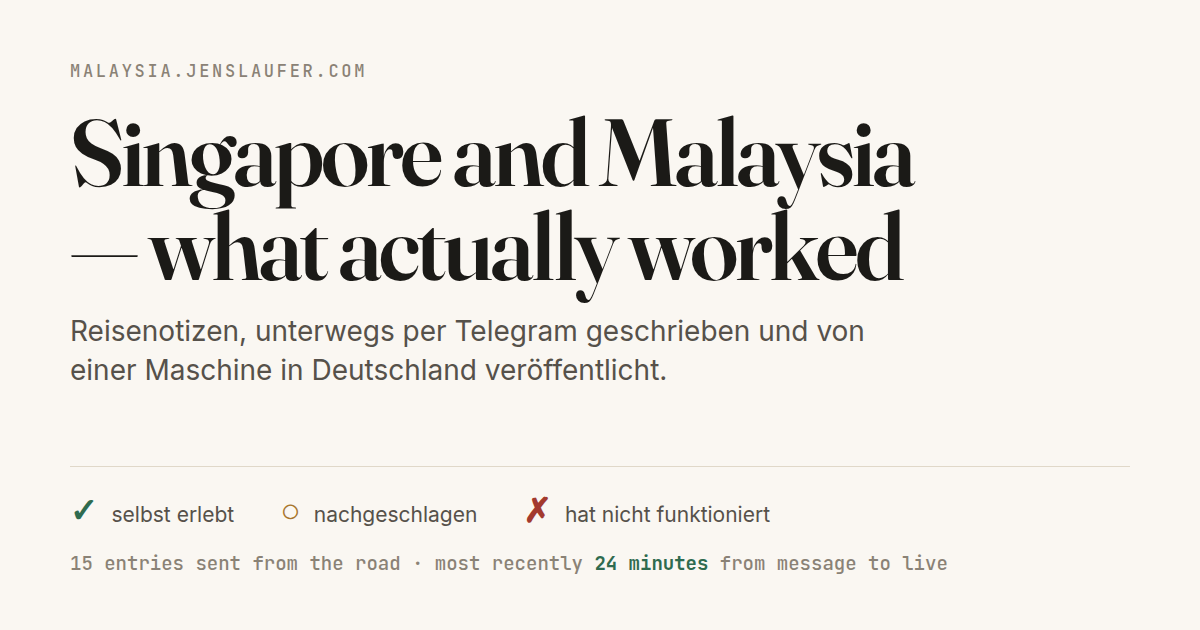
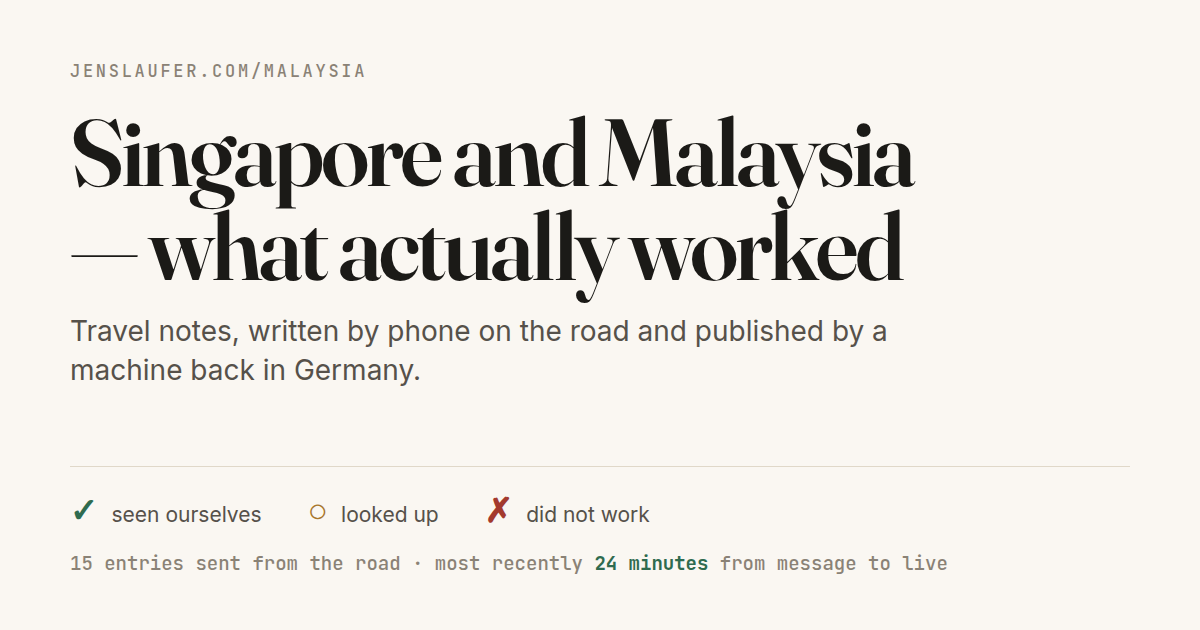
Vorschaukarte: die beworbene Adresse gibt es nicht, und die englische war halb deutsch
Auf der Karte, die beim Teilen in WhatsApp, Telegram und LinkedIn erscheint,
stand malaysia.jenslaufer.com. Die Subdomain hat keinen DNS-Eintrag; wer sie
abtippt, landet nirgends. Im HTML, im Feed und in der sitemap steht ueberall
die richtige Adresse — deshalb war jede Pruefung gruen. Gelesen wird beim
Teilen aber das Bild, und dort findet sie kein grep.

Die Adresse kommt jetzt aus BASIS statt aus der Vorlage. Zwei Tests halten
das fest: die Karte zeigt die Adresse, unter der die Seite steht, und sie
nennt keine zweite Adresse auf dieser Domain.

Dabei aufgefallen: die englische Karte trug lang=en und einen uebersetzten
Titel, Unterzeile und Legende blieben deutsch — sichtbar genau unter dem
englischen LinkedIn-Post. Beides jetzt uebersetzt, ein Test je Sprache.

163 Tests gruen.

diff --git a/template/og.html b/template/og.html
@@ -43,16 +43,15 @@
 </head>
 <body>
   <div>
-    <p class="kicker">malaysia.jenslaufer.com</p>
+    <p class="kicker">{{ADRESSE}}</p>
     <h1>Singapur und Malaysia — was wirklich funktioniert hat</h1>
-    <p class="sub">Reisenotizen, unterwegs per Telegram geschrieben und von einer
-       Maschine in Deutschland veröffentlicht.</p>
+    <p class="sub">{{UNTERZEILE}}</p>
   </div>
   <div>
     <div class="legende">
-      <div class="erlebt"><b>&#10003;</b> selbst erlebt</div>
-      <div class="recherche"><b>&#9675;</b> nachgeschlagen</div>
-      <div class="gescheitert"><b>&#10007;</b> hat nicht funktioniert</div>
+      <div class="erlebt"><b>&#10003;</b> {{ERLEBT}}</div>
+      <div class="recherche"><b>&#9675;</b> {{RECHERCHE}}</div>
+      <div class="gescheitert"><b>&#10007;</b> {{GESCHEITERT}}</div>
     </div>
     <p class="fuss">{{FUSS}}</p>
   </div>

diff --git a/tests/test_build.py b/tests/test_build.py
@@ -411,6 +411,72 @@ class TestVorschaubild(unittest.TestCase):
         self.assertNotIn("Minuten", karte)
 
 
+class TestKartenadresse(unittest.TestCase):
+    """Die Adresse auf der Vorschaukarte findet kein grep — sie steht im PNG.
+
+    Gefunden am 17.08.: die Karte warb fuer malaysia.jenslaufer.com, eine
+    Adresse ohne DNS-Eintrag. Jede Pruefung ueber HTML, Feed und sitemap war
+    gruen, weil dort ueberall die richtige Adresse steht; gelesen wird beim
+    Teilen aber das Bild. Wer sie abtippt, landet nirgends.
+    """
+
+    ERWARTET = build.BASIS.split("://", 1)[1].rstrip("/")
+
+    @contextlib.contextmanager
+    def sprache(self, wert):
+        alt, build.SPRACHE = build.SPRACHE, wert
+        try:
+            yield
+        finally:
+            build.SPRACHE = alt
+
+    def test_karte_zeigt_die_adresse_unter_der_die_seite_steht(self):
+        for wert in build.SPRACHEN:
+            with self.subTest(sprache=wert), self.sprache(wert):
+                self.assertIn(self.ERWARTET, build._og_karte({}))
+
+    def test_karte_nennt_keine_zweite_adresse_auf_dieser_domain(self):
+        muster = re.compile(r"[\w.-]*jenslaufer\.com[\w/.-]*")
+        for wert in build.SPRACHEN:
+            with self.subTest(sprache=wert), self.sprache(wert):
+                for gefunden in muster.findall(build._og_karte({})):
+                    self.assertEqual(
+                        self.ERWARTET, gefunden.rstrip("/"),
+                        f"Vorschaukarte nennt {gefunden!r}, erreichbar ist "
+                        f"{self.ERWARTET!r}")
+
+
+class TestKarteSpricht(unittest.TestCase):
+    """Die englische Vorschaukarte war zur Haelfte deutsch.
+
+    Belegt am 17.08. an der gerenderten Karte: `lang="en"`, Titel uebersetzt,
+    Unterzeile und Legende weiter deutsch. Sichtbar wird das genau dort, wo es
+    am meisten kostet — unter dem englischen LinkedIn-Post, den Fremde sehen.
+    """
+
+    DEUTSCH = ("selbst erlebt", "nachgeschlagen", "hat nicht funktioniert",
+               "Reisenotizen", "veröffentlicht")
+
+    def test_englische_karte_traegt_kein_deutsches_wort(self):
+        alt, build.SPRACHE = build.SPRACHE, "en"
+        try:
+            karte = build._og_karte({})
+        finally:
+            build.SPRACHE = alt
+        sichtbar = re.sub(r"<(style|script)\b.*?</\1>", " ", karte, flags=re.S | re.I)
+        for wort in self.DEUTSCH:
+            self.assertNotIn(wort, sichtbar)
+
+    def test_deutsche_karte_bleibt_deutsch(self):
+        alt, build.SPRACHE = build.SPRACHE, "de"
+        try:
+            karte = build._og_karte({})
+        finally:
+            build.SPRACHE = alt
+        self.assertIn("selbst erlebt", karte)
+        self.assertIn("Reisenotizen", karte)
+
+
 class TestEchteUmlaute(unittest.TestCase):
     """Auf der Seite stehen echte Umlaute, nie die ASCII-Umschrift.
 

diff --git a/build.py b/build.py
@@ -987,7 +987,25 @@ def _og_karte(summe: dict) -> str:
         karte = (karte.replace("Singapur und Malaysia", "Singapore and Malaysia")
                       .replace("was wirklich funktioniert hat", "what actually worked")
                       .replace('lang="de"', 'lang="en"'))
-    return karte.replace("{{FUSS}}", fuss)
+    # Die Adresse kommt aus BASIS, nicht aus der Vorlage. Sie stand dort als
+    # malaysia.jenslaufer.com — eine Subdomain, die nie angelegt wurde. Im HTML
+    # war ueberall die richtige Adresse, geteilt wird aber das Bild, und dort
+    # findet sie kein grep. Wer sie abtippt, landet nirgends (17.08. gemessen).
+    ersatz = {
+        "ADRESSE": BASIS.split("://", 1)[1].rstrip("/"),
+        "UNTERZEILE": _t(
+            "Reisenotizen, unterwegs per Telegram geschrieben und von einer "
+            "Maschine in Deutschland veröffentlicht.",
+            "Travel notes, written by phone on the road and published by a "
+            "machine back in Germany."),
+        "ERLEBT": _t("selbst erlebt", "seen ourselves"),
+        "RECHERCHE": _t("nachgeschlagen", "looked up"),
+        "GESCHEITERT": _t("hat nicht funktioniert", "did not work"),
+        "FUSS": fuss,
+    }
+    for name, wert in ersatz.items():
+        karte = karte.replace("{{" + name + "}}", wert)
+    return karte
 
 
 def baue_og_bild(summe: dict, ziel: Path = None) -> Path | None:
